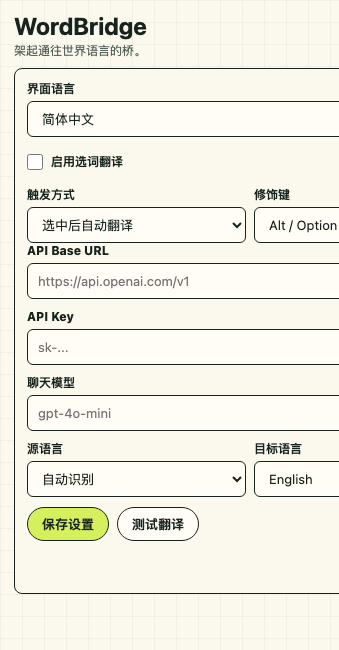
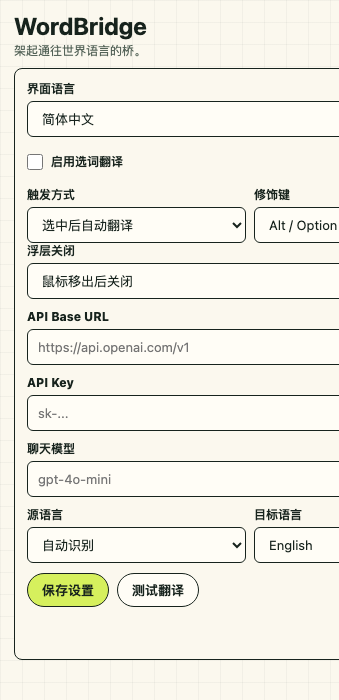
Add popup close behavior setting

Changed region(s): [[0.0295, 0.0, 1.0, 0.8923], [0.0295, 0.8923, 0.059, 0.9231]]

diff --git a/options.js b/options.js
@@ -2,6 +2,7 @@ const DEFAULT_SETTINGS = {
   enabled: true,
   triggerMode: "modifier-double-click",
   triggerModifier: "alt",
+  closeBehavior: "mouseleave",
   baseUrl: "https://api.openai.com/v1",
   apiKey: "",
   model: "gpt-4o-mini",
@@ -27,6 +28,9 @@ const I18N = {
     "modifierShift": "Shift",
     "modifierCtrlShift": "Ctrl / Command (⌘) + Shift",
     "modifierAltShift": "Alt / Option (⌥) + Shift",
+    "closeBehavior": "浮层关闭",
+    "closeOnMouseLeave": "鼠标移出后关闭",
+    "closeManual": "只点 X 关闭",
     "apiBaseUrl": "API Base URL",
     "apiKey": "API Key",
     "chatModel": "聊天模型",
@@ -57,6 +61,9 @@ const I18N = {
     "modifierShift": "Shift",
     "modifierCtrlShift": "Ctrl / Command (⌘) + Shift",
     "modifierAltShift": "Alt / Option (⌥) + Shift",
+    "closeBehavior": "浮層關閉",
+    "closeOnMouseLeave": "滑鼠移出後關閉",
+    "closeManual": "只點 X 關閉",
     "apiBaseUrl": "API Base URL",
     "apiKey": "API Key",
     "chatModel": "聊天模型",
@@ -87,6 +94,9 @@ const I18N = {
     "modifierShift": "Shift",
     "modifierCtrlShift": "Ctrl / Command (⌘) + Shift",
     "modifierAltShift": "Alt / Option (⌥) + Shift",
+    "closeBehavior": "Popup close",
+    "closeOnMouseLeave": "Close on mouse leave",
+    "closeManual": "Only close with X",
     "apiBaseUrl": "API Base URL",
     "apiKey": "API Key",
     "chatModel": "Chat model",
@@ -117,6 +127,9 @@ const I18N = {
     "modifierShift": "Shift",
     "modifierCtrlShift": "Ctrl / Command (⌘) + Shift",
     "modifierAltShift": "Alt / Option (⌥) + Shift",
+    "closeBehavior": "ポップアップを閉じる",
+    "closeOnMouseLeave": "マウスが外れたら閉じる",
+    "closeManual": "X でのみ閉じる",
     "apiBaseUrl": "API Base URL",
     "apiKey": "API Key",
     "chatModel": "チャットモデル",
@@ -147,6 +160,9 @@ const I18N = {
     "modifierShift": "Shift",
     "modifierCtrlShift": "Ctrl / Command (⌘) + Shift",
     "modifierAltShift": "Alt / Option (⌥) + Shift",
+    "closeBehavior": "팝업 닫기",
+    "closeOnMouseLeave": "마우스가 벗어나면 닫기",
+    "closeManual": "X로만 닫기",
     "apiBaseUrl": "API Base URL",
     "apiKey": "API Key",
     "chatModel": "채팅 모델",
@@ -177,6 +193,9 @@ const I18N = {
     "modifierShift": "Shift",
     "modifierCtrlShift": "Ctrl / Command (⌘) + Shift",
     "modifierAltShift": "Alt / Option (⌥) + Shift",
+    "closeBehavior": "Fermeture du popup",
+    "closeOnMouseLeave": "Fermer à la sortie souris",
+    "closeManual": "Fermer seulement avec X",
     "apiBaseUrl": "API Base URL",
     "apiKey": "API Key",
     "chatModel": "Modèle de chat",
@@ -207,6 +226,9 @@ const I18N = {
     "modifierShift": "Shift",
     "modifierCtrlShift": "Ctrl / Command (⌘) + Shift",
     "modifierAltShift": "Alt / Option (⌥) + Shift",
+    "closeBehavior": "Popup schließen",
+    "closeOnMouseLeave": "Beim Verlassen schließen",
+    "closeManual": "Nur mit X schließen",
     "apiBaseUrl": "API Base URL",
     "apiKey": "API Key",
     "chatModel": "Chatmodell",
@@ -237,6 +259,9 @@ const I18N = {
     "modifierShift": "Shift",
     "modifierCtrlShift": "Ctrl / Command (⌘) + Shift",
     "modifierAltShift": "Alt / Option (⌥) + Shift",
+    "closeBehavior": "Cerrar ventana",
+    "closeOnMouseLeave": "Cerrar al salir el ratón",
+    "closeManual": "Cerrar solo con X",
     "apiBaseUrl": "API Base URL",
     "apiKey": "API Key",
     "chatModel": "Modelo de chat",
@@ -267,6 +292,9 @@ const I18N = {
     "modifierShift": "Shift",
     "modifierCtrlShift": "Ctrl / Command (⌘) + Shift",
     "modifierAltShift": "Alt / Option (⌥) + Shift",
+    "closeBehavior": "Fechar popup",
+    "closeOnMouseLeave": "Fechar ao sair o mouse",
+    "closeManual": "Fechar só com X",
     "apiBaseUrl": "API Base URL",
     "apiKey": "API Key",
     "chatModel": "Modelo de chat",
@@ -297,6 +325,9 @@ const I18N = {
     "modifierShift": "Shift",
     "modifierCtrlShift": "Ctrl / Command (⌘) + Shift",
     "modifierAltShift": "Alt / Option (⌥) + Shift",
+    "closeBehavior": "Chiusura popup",
+    "closeOnMouseLeave": "Chiudi all’uscita del mouse",
+    "closeManual": "Chiudi solo con X",
     "apiBaseUrl": "API Base URL",
     "apiKey": "API Key",
     "chatModel": "Modello chat",
@@ -327,6 +358,9 @@ const I18N = {
     "modifierShift": "Shift",
     "modifierCtrlShift": "Ctrl / Command (⌘) + Shift",
     "modifierAltShift": "Alt / Option (⌥) + Shift",
+    "closeBehavior": "Закрытие окна",
+    "closeOnMouseLeave": "Закрывать при уходе мыши",
+    "closeManual": "Закрывать только X",
     "apiBaseUrl": "API Base URL",
     "apiKey": "API Key",
     "chatModel": "Чат-модель",
@@ -357,6 +391,9 @@ const I18N = {
     "modifierShift": "Shift",
     "modifierCtrlShift": "Ctrl / Command (⌘) + Shift",
     "modifierAltShift": "Alt / Option (⌥) + Shift",
+    "closeBehavior": "إغلاق النافذة",
+    "closeOnMouseLeave": "الإغلاق عند خروج المؤشر",
+    "closeManual": "الإغلاق بزر X فقط",
     "apiBaseUrl": "API Base URL",
     "apiKey": "API Key",
     "chatModel": "نموذج المحادثة",
@@ -387,6 +424,9 @@ const I18N = {
     "modifierShift": "Shift",
     "modifierCtrlShift": "Ctrl / Command (⌘) + Shift",
     "modifierAltShift": "Alt / Option (⌥) + Shift",
+    "closeBehavior": "पॉपअप बंद करें",
+    "closeOnMouseLeave": "माउस हटने पर बंद करें",
+    "closeManual": "केवल X से बंद करें",
     "apiBaseUrl": "API Base URL",
     "apiKey": "API Key",
     "chatModel": "चैट मॉडल",
@@ -417,6 +457,9 @@ const I18N = {
     "modifierShift": "Shift",
     "modifierCtrlShift": "Ctrl / Command (⌘) + Shift",
     "modifierAltShift": "Alt / Option (⌥) + Shift",
+    "closeBehavior": "Đóng popup",
+    "closeOnMouseLeave": "Đóng khi rời chuột",
+    "closeManual": "Chỉ đóng bằng X",
     "apiBaseUrl": "API Base URL",
     "apiKey": "API Key",
     "chatModel": "Mô hình chat",
@@ -447,6 +490,9 @@ const I18N = {
     "modifierShift": "Shift",
     "modifierCtrlShift": "Ctrl / Command (⌘) + Shift",
     "modifierAltShift": "Alt / Option (⌥) + Shift",
+    "closeBehavior": "ปิดป๊อปอัป",
+    "closeOnMouseLeave": "ปิดเมื่อเมาส์ออก",
+    "closeManual": "ปิดด้วย X เท่านั้น",
     "apiBaseUrl": "API Base URL",
     "apiKey": "API Key",
     "chatModel": "โมเดลแชต",
@@ -564,6 +610,7 @@ async function saveSettings(options = {}) {
     enabled: form.elements.enabled.checked,
     triggerMode: form.elements.triggerMode.value,
     triggerModifier: form.elements.triggerModifier.value,
+    closeBehavior: form.elements.closeBehavior.value,
     baseUrl: form.elements.baseUrl.value.trim().replace(/\/+$/, ""),
     apiKey: form.elements.apiKey.value.trim(),
     model: form.elements.model.value.trim(),

diff --git a/content.js b/content.js
@@ -5,6 +5,7 @@ let currentAudio = null;
 let wordBridgeEnabled = true;
 let triggerMode = "modifier-double-click";
 let triggerModifier = "alt";
+let closeBehavior = "mouseleave";
 
 loadEnabledState();
 
@@ -24,6 +25,10 @@ if (globalThis.chrome?.storage?.onChanged) {
     if (changes.triggerModifier) {
       triggerModifier = normalizeTriggerModifier(changes.triggerModifier.newValue);
     }
+
+    if (changes.closeBehavior) {
+      closeBehavior = normalizeCloseBehavior(changes.closeBehavior.newValue);
+    }
   });
 }
 
@@ -31,10 +36,11 @@ async function loadEnabledState() {
   if (!globalThis.chrome?.storage?.sync) return;
 
   try {
-    const saved = await chrome.storage.sync.get({ enabled: true, triggerMode: "modifier-double-click", triggerModifier: "alt" });
+    const saved = await chrome.storage.sync.get({ enabled: true, triggerMode: "modifier-double-click", triggerModifier: "alt", closeBehavior: "mouseleave" });
     wordBridgeEnabled = saved.enabled !== false;
     triggerMode = normalizeTriggerMode(saved.triggerMode);
     triggerModifier = normalizeTriggerModifier(saved.triggerModifier);
+    closeBehavior = normalizeCloseBehavior(saved.closeBehavior);
     if (!wordBridgeEnabled) closeCard();
   } catch {
     wordBridgeEnabled = true;
@@ -112,6 +118,10 @@ function normalizeTriggerMode(value) {
   return ["selection", "modifier-selection", "modifier-double-click"].includes(value) ? value : "modifier-double-click";
 }
 
+function normalizeCloseBehavior(value) {
+  return ["mouseleave", "manual"].includes(value) ? value : "mouseleave";
+}
+
 async function requestTranslation(text, rect, selectionKind) {
   const requestId = ++activeRequest;
   let response;
@@ -163,6 +173,10 @@ function openCard(model) {
 
   const closeButton = shadow.querySelector("[data-action='close']");
   closeButton?.addEventListener("click", closeCard);
+
+  if (closeBehavior === "mouseleave") {
+    card?.addEventListener("mouseleave", closeCard);
+  }
 
   const speakButton = shadow.querySelector("[data-action='speak']");
   speakButton?.addEventListener("click", () => playSpeech(model.data?.pronunciationText || model.data?.translation));

diff --git a/options.html b/options.html
@@ -72,6 +72,14 @@
         </div>
 
         <label>
+          <span data-i18n="closeBehavior">浮层关闭</span>
+          <select id="closeBehavior" name="closeBehavior">
+            <option value="mouseleave" data-i18n="closeOnMouseLeave">鼠标移出后关闭</option>
+            <option value="manual" data-i18n="closeManual">只点 X 关闭</option>
+          </select>
+        </label>
+
+        <label>
           <span data-i18n="apiBaseUrl">API Base URL</span>
           <input id="baseUrl" name="baseUrl" type="url" placeholder="https://api.openai.com/v1" required>
         </label>

diff --git a/background.js b/background.js
@@ -5,6 +5,7 @@ const DEFAULT_SETTINGS = {
   enabled: true,
   triggerMode: "modifier-double-click",
   triggerModifier: "alt",
+  closeBehavior: "mouseleave",
   baseUrl: "https://api.openai.com/v1",
   apiKey: "",
   model: "gpt-4o-mini",
